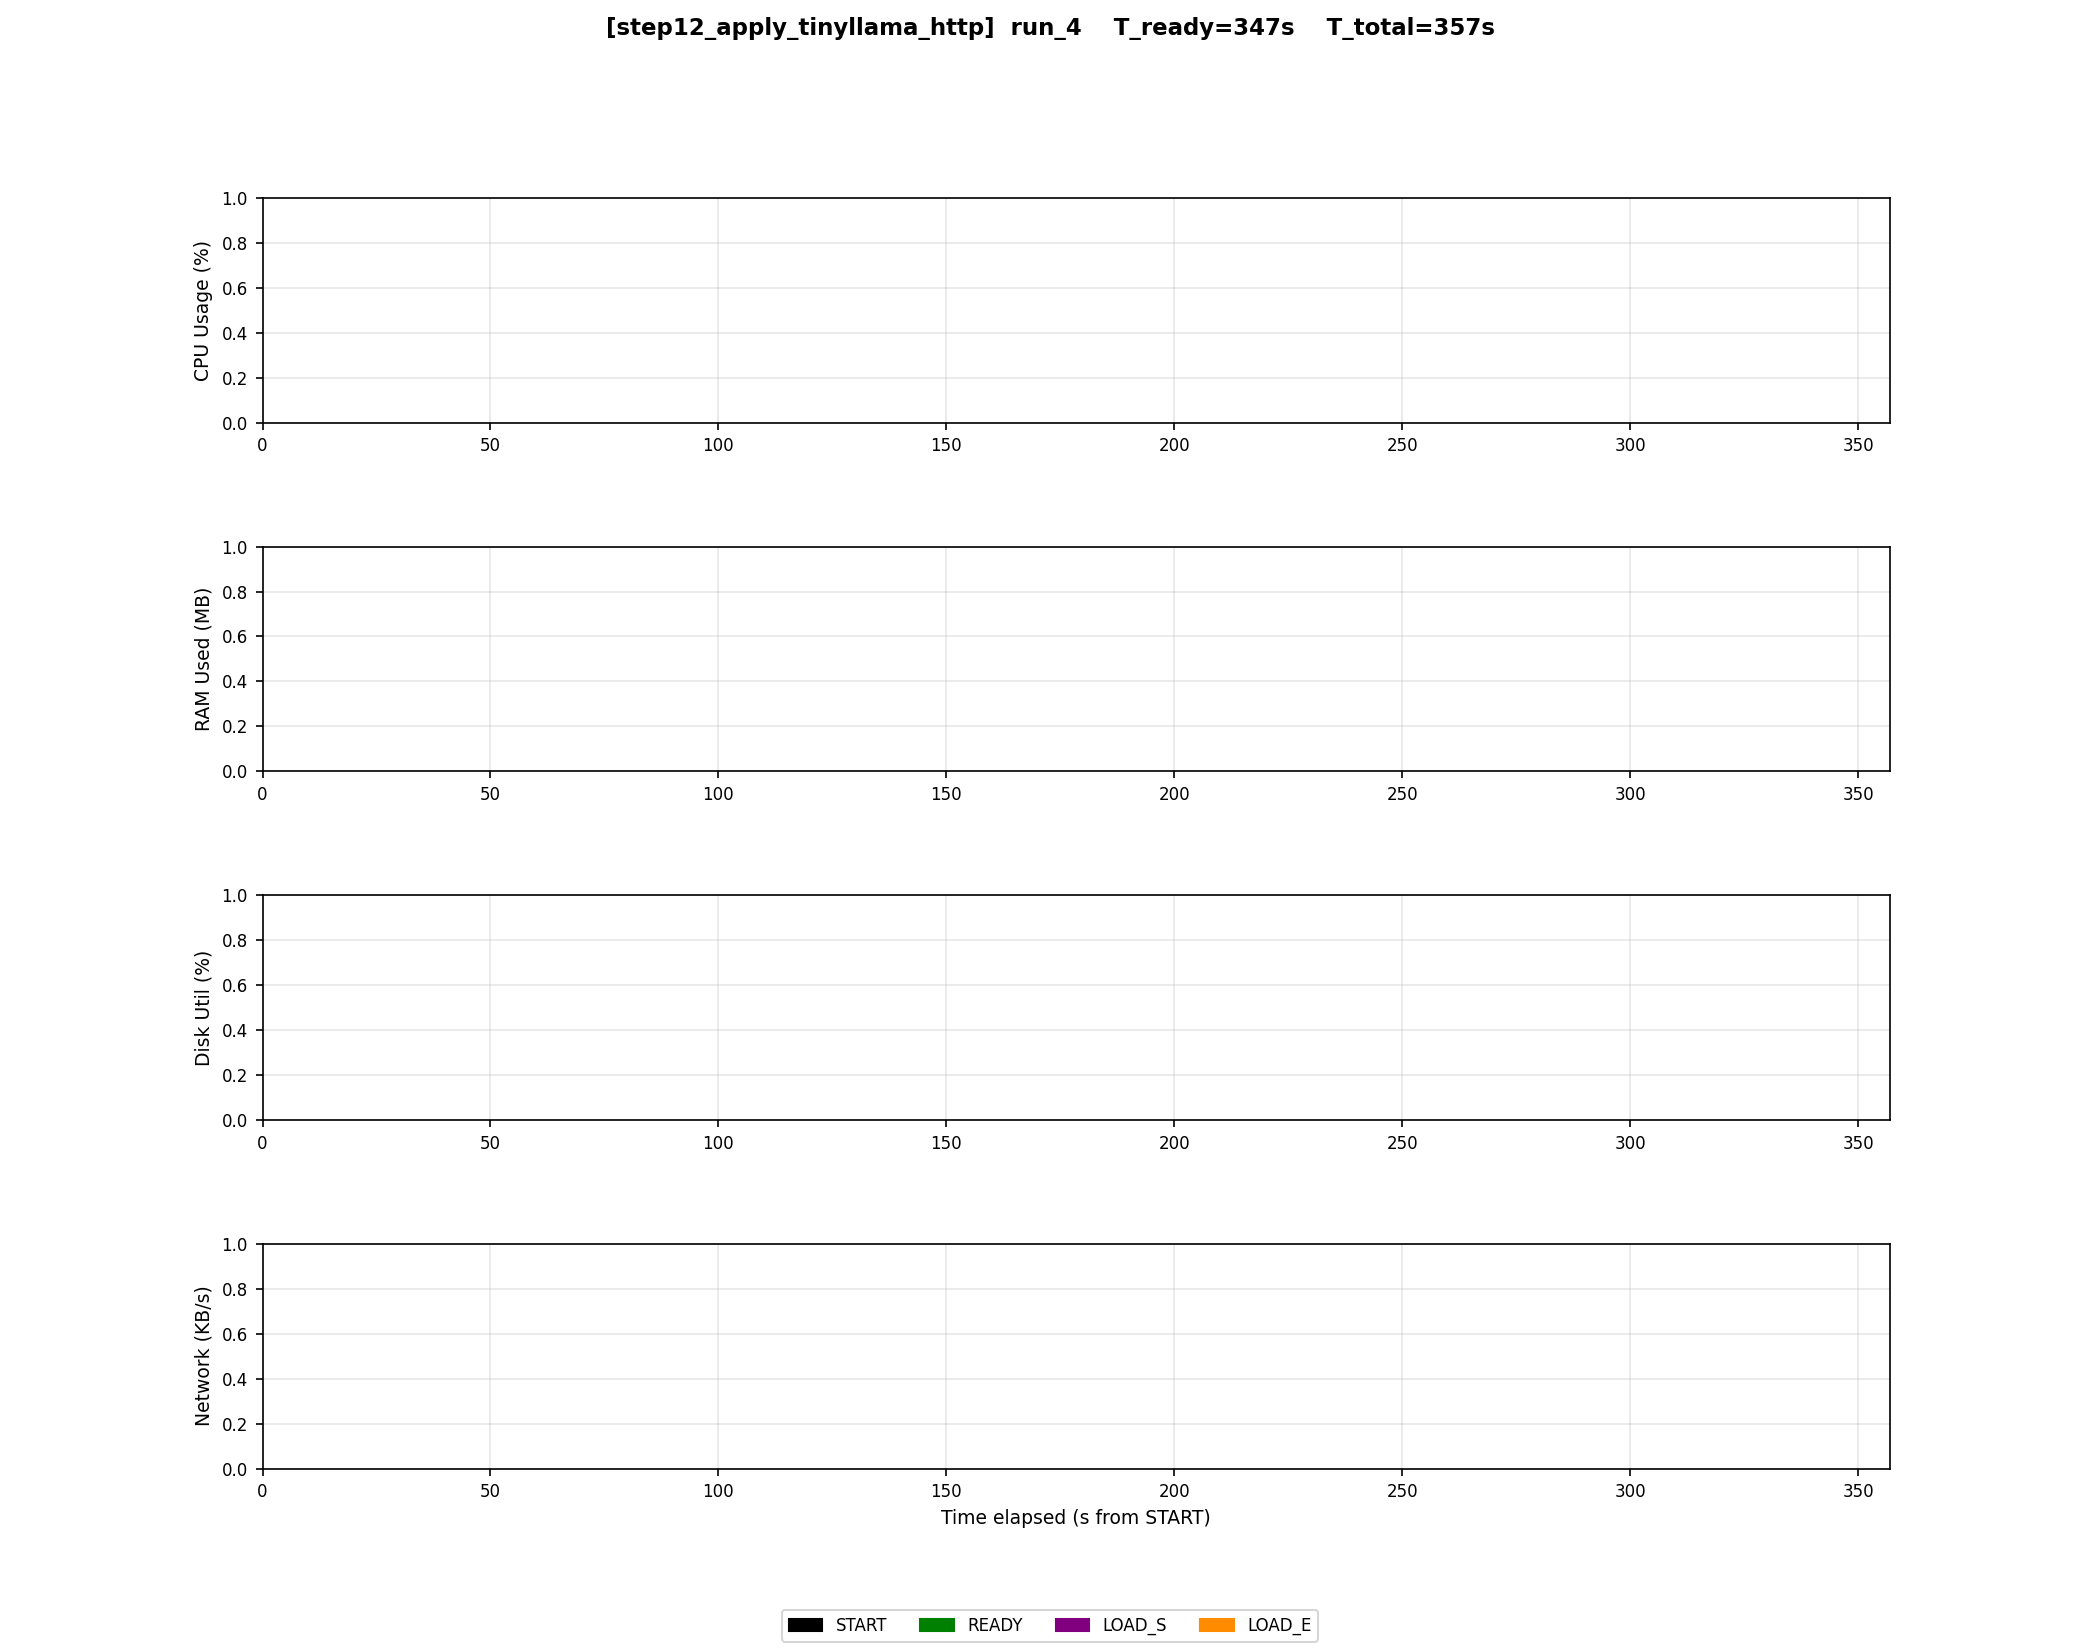
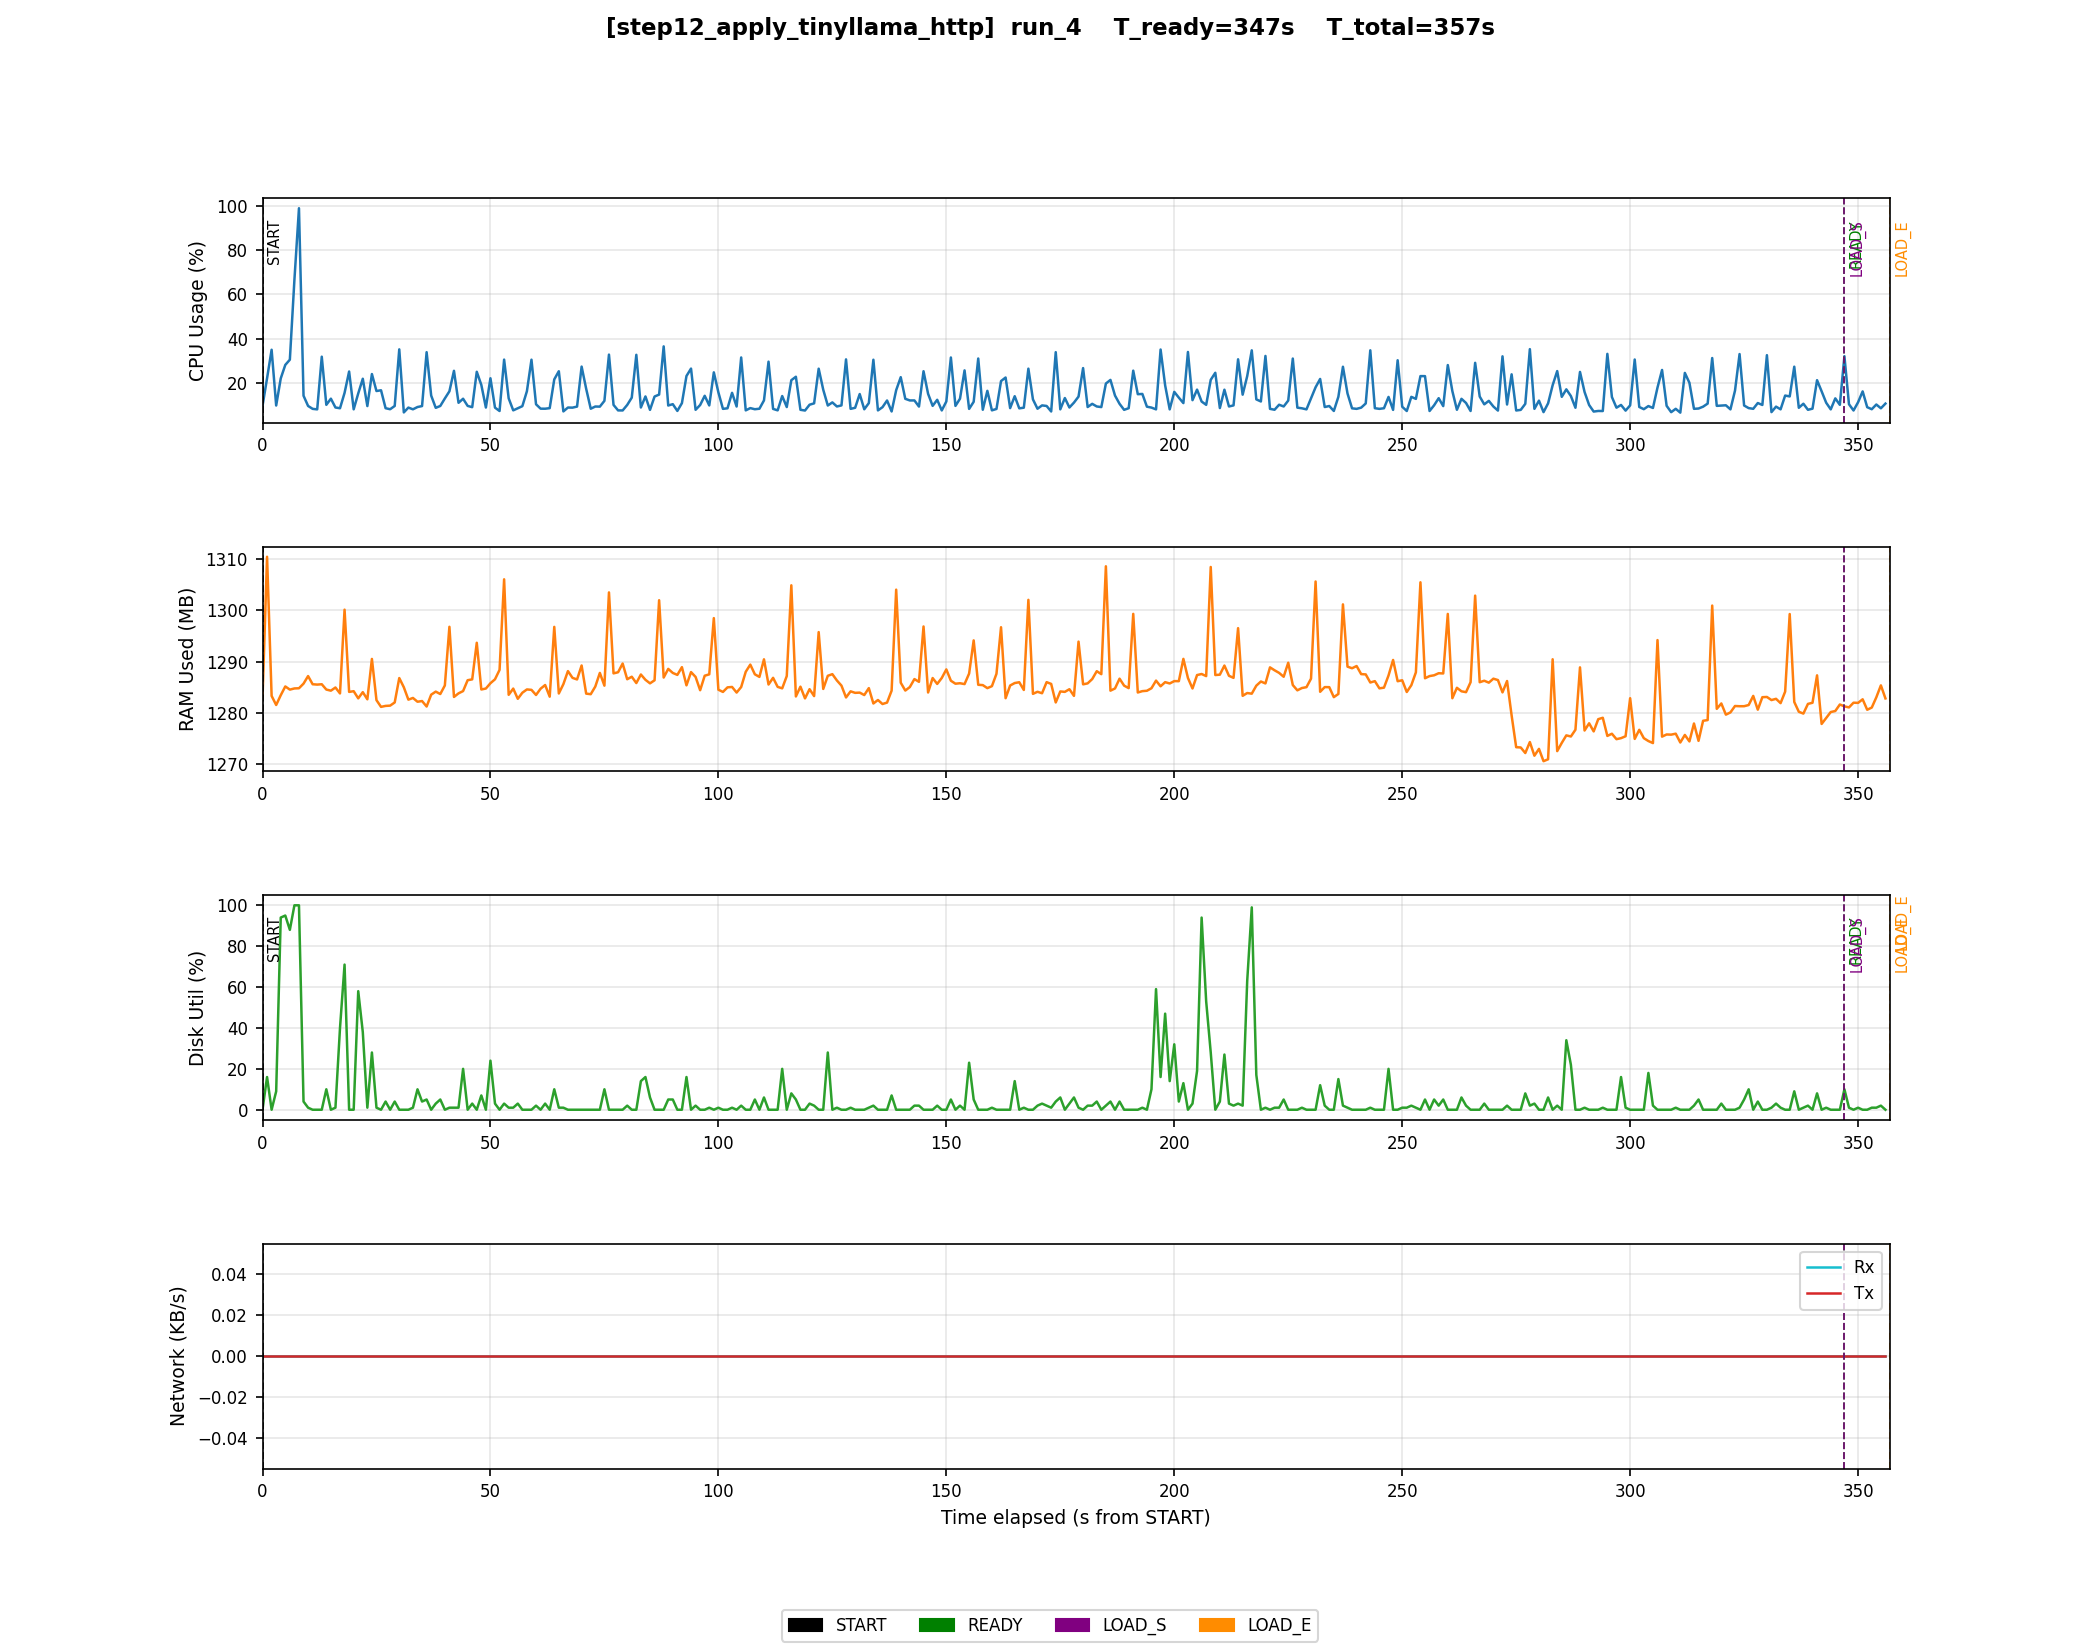
Fix: Netdata CSV reverse order and timezone offset correction

diff --git a/analysis/plot_step12_tinyllama.py b/analysis/plot_step12_tinyllama.py
@@ -6,6 +6,8 @@ import pandas as pd
 import matplotlib.pyplot as plt
 import matplotlib.patches as mpatches
 from matplotlib.gridspec import GridSpec
+import warnings
+warnings.filterwarnings("ignore", category=DeprecationWarning)
 
 STEP = "step12_apply_tinyllama_http"
 BASE_DIR = os.path.abspath(os.path.join(os.path.dirname(__file__), ".."))
@@ -29,7 +31,11 @@ def _read_csv_with_time(csv_path):
     if not os.path.exists(csv_path):
         return None, None
 
-    df = pd.read_csv(csv_path, comment="#")
+    try:
+        df = pd.read_csv(csv_path, comment="#")
+    except pd.errors.EmptyDataError:
+        return None, None
+
     df.columns = [c.strip().strip('"') for c in df.columns]
     time_col = df.columns[0]
 
@@ -43,6 +49,8 @@ def _read_csv_with_time(csv_path):
     df = df.dropna(subset=[time_col])
     if df.empty:
         return None, None
+
+    df = df.sort_values(by=time_col)
 
     t = df[time_col].values.astype(float)
 
@@ -137,9 +145,29 @@ def safe_stat(t, v):
         return np.nan, np.nan, np.nan
     try:
         auc = float(np.trapz(v, t)) if (len(t) == len(v) and len(t) > 1) else np.nan
+        auc = abs(auc)
     except Exception:
         auc = np.nan
     return float(np.nanmean(v)), float(np.nanmax(v)), auc
+
+
+def align_time(t, start_epoch):
+    """
+    [FIX 2] Timezone Correction
+    If the CSV timestamps (t) are wildly different from START_EPOCH (e.g. > 1 hour),
+    calculate the offset (rounded to nearest hour) and shift t to align.
+    """
+    if t is None or len(t) == 0:
+        return t
+    
+    diff = t[0] - float(start_epoch)
+    if abs(diff) > 3000:
+        # Round to nearest hour (3600s)
+        hours_off = round(diff / 3600.0)
+        offset = hours_off * 3600.0
+        print(f"    [INFO] Detected timezone offset {hours_off}h ({offset}s). Aligning data.")
+        return t - offset
+    return t
 
 
 def plot_run(run_id):
@@ -162,6 +190,11 @@ def plot_run(run_id):
     t_ram, v_ram = load_ram(os.path.join(data_dir, "system_ram.csv"))
     t_disk, v_disk = load_disk(os.path.join(data_dir, "disk_util_mmcblk0.csv"))
     t_net, v_rx, v_tx = load_net(os.path.join(data_dir, "net_eth0.csv"))
+
+    t_cpu = align_time(t_cpu, start)
+    t_ram = align_time(t_ram, start)
+    t_disk = align_time(t_disk, start)
+    t_net = align_time(t_net, start)
 
     def rel(epoch):
         return (epoch - start) if epoch is not None else None
@@ -187,13 +220,16 @@ def plot_run(run_id):
         ax.set_ylabel(ylabel, fontsize=9)
         if t is not None and v is not None and len(t) > 0 and len(v) > 0:
             x = t - float(start)
-            mask = (x >= 0) & (x <= (end - start))
+            mask = (x >= -5) & (x <= (end - start + 5))
             x2 = x[mask]
             v2 = v[mask]
             if len(x2) > 0 and len(v2) > 0:
                 ax.plot(x2, v2, color=color, linewidth=1.2)
                 top = float(np.nanmax(v2)) if not np.all(np.isnan(v2)) else 1.0
                 add_markers(ax, markers, top)
+            else:
+                print(f"    [DEBUG] Empty plot for {ylabel}. t range: {t[0]-start:.1f} to {t[-1]-start:.1f}")
+
         ax.set_xlim(0, end - start)
         ax.grid(True, alpha=0.3)
         ax.tick_params(labelsize=8)
@@ -204,7 +240,7 @@ def plot_run(run_id):
 
     if t_net is not None and v_rx is not None and v_tx is not None and len(t_net) > 0:
         x = t_net - float(start)
-        mask = (x >= 0) & (x <= (end - start))
+        mask = (x >= -5) & (x <= (end - start + 5))
         x2 = x[mask]
         rx_kb = (v_rx / 1000.0)[mask]
         tx_kb = (v_tx / 1000.0)[mask]
@@ -220,6 +256,8 @@ def plot_run(run_id):
             if tx_kb.size > 0 and not np.all(np.isnan(tx_kb)):
                 top = max(top, float(np.nanmax(tx_kb)))
             add_markers(ax_net, markers, top)
+        else:
+             print(f"    [DEBUG] Empty plot for Network. t range: {t_net[0]-start:.1f} to {t_net[-1]-start:.1f}")
 
     ax_net.set_xlim(0, end - start)
     ax_net.grid(True, alpha=0.3)
